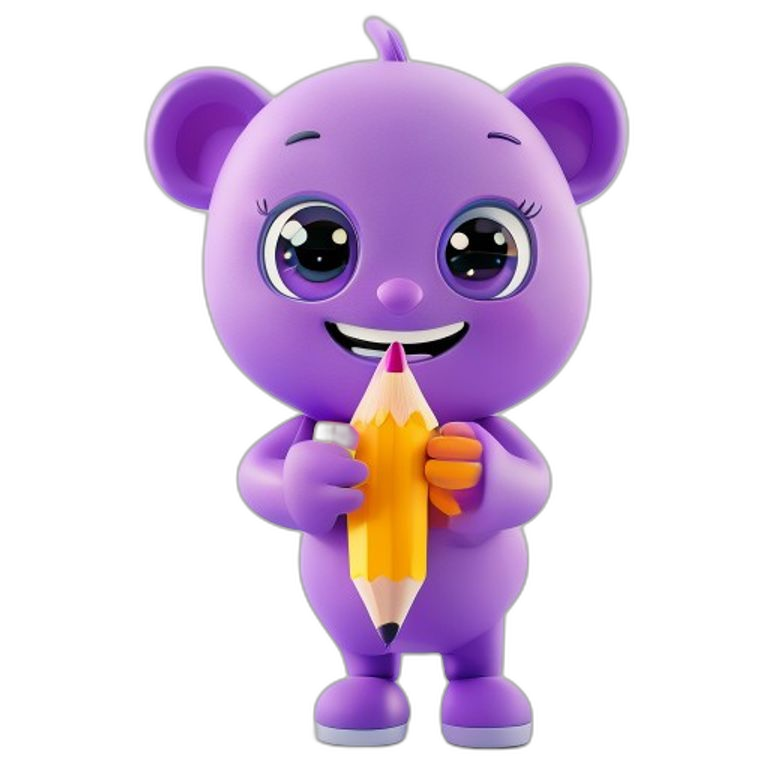
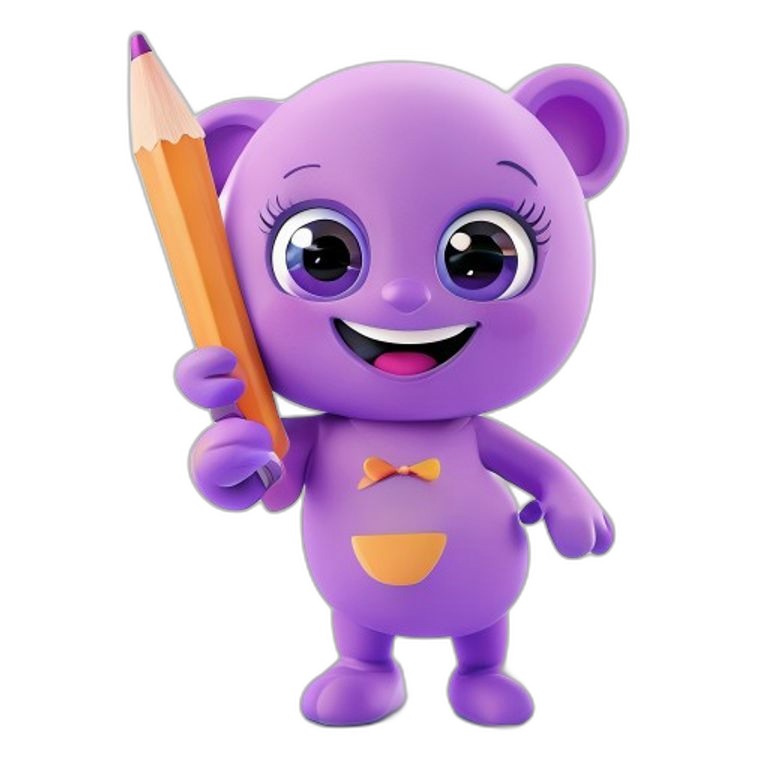
refine pollinations prompts and hero mascot composition

Changed region(s): [[0.1562, 0.0, 0.8125, 1.0], [0.7188, 0.4688, 0.75, 0.5]]

diff --git a/src/App.css b/src/App.css
@@ -534,7 +534,7 @@
 
 .hero-scene-panel {
   position: relative;
-  min-height: 340px;
+  min-height: 360px;
   border-radius: 36px;
   overflow: hidden;
   background:
@@ -548,7 +548,7 @@
 .hero-scene-panel::before {
   content: '';
   position: absolute;
-  inset: 38px 26px 26px;
+  inset: 34px 24px 24px;
   border-radius: 34px;
   background:
     linear-gradient(180deg, rgba(255, 255, 255, 0.3), rgba(255, 255, 255, 0.08));
@@ -565,6 +565,7 @@
   filter: blur(8px);
 }
 
+.hero-sidekick-badge,
 .hero-mascot-stage,
 .hero-mascot-image,
 .hero-stat-card,
@@ -573,13 +574,53 @@
   z-index: 1;
 }
 
+.hero-sidekick-badge {
+  left: 26px;
+  top: 110px;
+  display: flex;
+  align-items: center;
+  gap: 12px;
+  padding: 12px 14px;
+  width: min(44%, 190px);
+  border-radius: 22px;
+  background: rgba(255, 255, 255, 0.66);
+  border: 1px solid rgba(255, 255, 255, 0.5);
+  box-shadow: 0 18px 34px rgba(111, 94, 187, 0.1);
+  backdrop-filter: blur(12px);
+  z-index: 4;
+}
+
+.hero-sidekick-badge strong,
+.hero-sidekick-badge span {
+  display: block;
+}
+
+.hero-sidekick-badge strong {
+  color: #35295f;
+  font-size: 0.95rem;
+}
+
+.hero-sidekick-badge span {
+  margin-top: 2px;
+  color: #7a6cab;
+  font-size: 0.8rem;
+}
+
+.hero-sidekick-image {
+  width: 54px;
+  height: 54px;
+  object-fit: contain;
+  flex: 0 0 auto;
+  filter: drop-shadow(0 10px 18px rgba(97, 63, 202, 0.16));
+}
+
 .hero-mascot-stage {
-  right: 8px;
-  bottom: 8px;
-  width: min(74%, 360px);
+  right: 18px;
+  bottom: 10px;
+  width: min(68%, 330px);
   aspect-ratio: 1 / 1;
   overflow: visible;
-  z-index: 1;
+  z-index: 2;
 }
 
 .hero-mascot-stage::before,
@@ -607,10 +648,10 @@
   height: 100%;
   object-fit: contain;
   object-position: bottom right;
-  transform: none;
+  transform: translateY(3%);
   filter:
-    saturate(1.03)
-    drop-shadow(0 18px 32px rgba(94, 65, 214, 0.18));
+    saturate(1.05)
+    drop-shadow(0 22px 34px rgba(94, 65, 214, 0.2));
   animation: float-soft 4.6s ease-in-out infinite;
   z-index: 2;
 }
@@ -654,7 +695,7 @@
 
 .hero-speech-bottom {
   left: 26px;
-  bottom: 74px;
+  bottom: 92px;
 }
 
 .hero-stat-card {
@@ -713,7 +754,10 @@
   display: block;
 }
 
-.scene-mini-card span {
+.scene-mini-kicker {
+  display: inline-flex !important;
+  align-items: center;
+  gap: 8px;
   color: #7e71ad;
   font-size: 0.78rem;
   text-transform: uppercase;
@@ -1907,6 +1951,12 @@
     min-height: 320px;
   }
 
+  .hero-sidekick-badge {
+    left: 18px;
+    top: 84px;
+    width: min(52%, 180px);
+  }
+
   .hero-scene-panel::before {
     inset: 32px 16px 20px;
   }
@@ -1935,6 +1985,10 @@
   .hero-mascot-image {
     width: 112%;
     height: 112%;
+  }
+
+  .hero-sidekick-badge {
+    padding: 10px 12px;
   }
 
   .hero-stat-card {

diff --git a/src/App.tsx b/src/App.tsx
@@ -456,6 +456,13 @@ function App() {
               <div className="hero-orb hero-orb-right" />
               <div className="hero-speech hero-speech-top">Let&apos;s learn!</div>
               <div className="hero-speech hero-speech-bottom">Level up!</div>
+              <div className="hero-sidekick-badge">
+                <img src="/pollinations/hero-sidekick.png" alt="Mascote auxiliar do SparkLingo" className="hero-sidekick-image" />
+                <div>
+                  <strong>Mini coach</strong>
+                  <span>Dica ao vivo</span>
+                </div>
+              </div>
               <div className="hero-mascot-stage">
                 <img src="/pollinations/hero-mascot.png" alt="Spark em uma cena principal do SparkLingo" className="hero-mascot-image" />
               </div>
@@ -476,11 +483,11 @@ function App() {
             </div>
             <div className="hero-scene-footer">
               <article className="scene-mini-card">
-                <span>⭐ Destaque</span>
+                <span className="scene-mini-kicker"><Star size={14} /> Destaque</span>
                 <strong>Sessão com streak viva</strong>
               </article>
               <article className="scene-mini-card">
-                <span>🎯 Meta</span>
+                <span className="scene-mini-kicker"><Target size={14} /> Meta</span>
                 <strong>Missões do dia em progresso</strong>
               </article>
             </div>